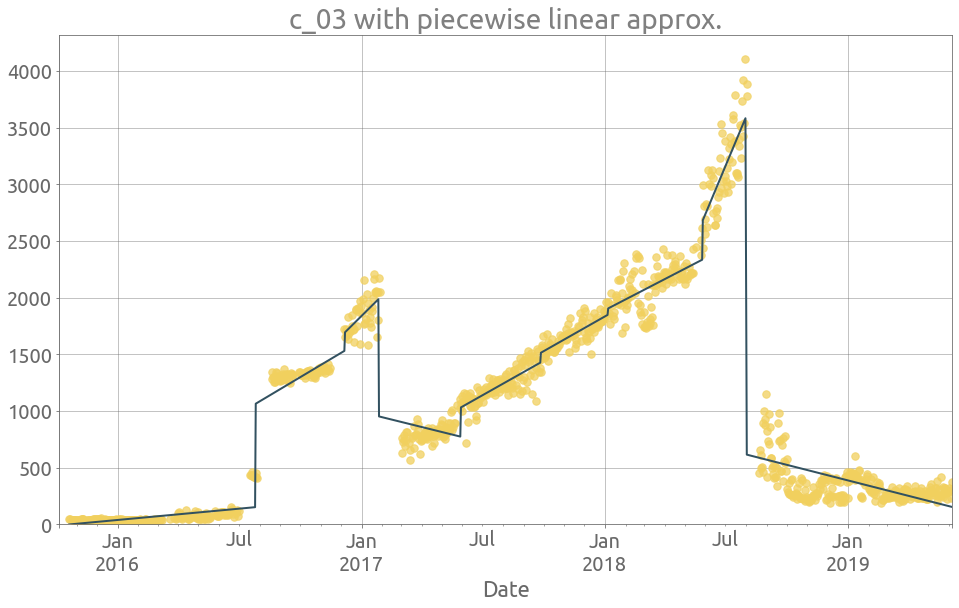
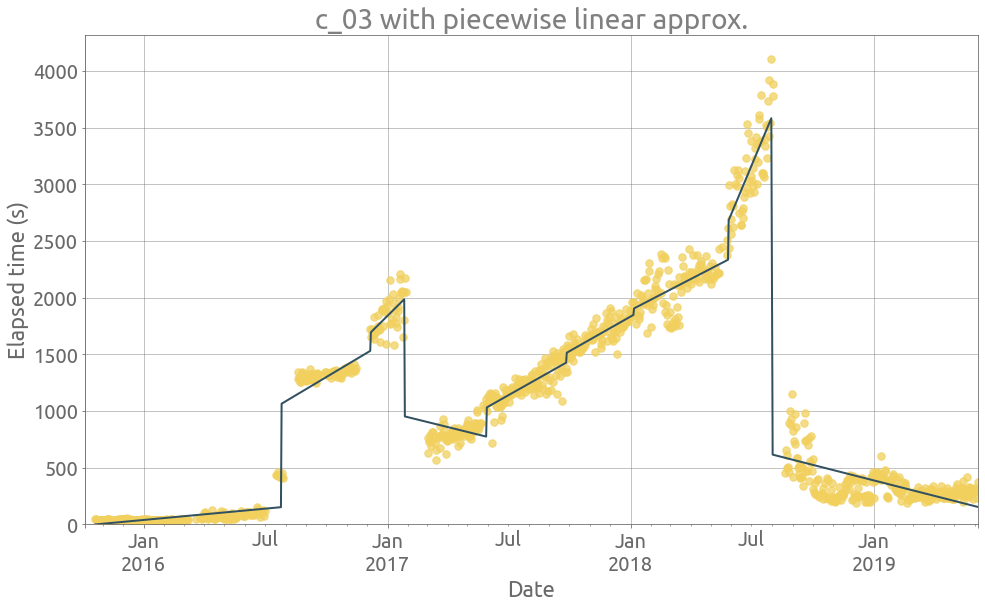
changed the pics

diff --git a/_posts/2020-07-02-Outlier_and_Change_Point_Detection_in_Data_Integration_Performance_Metrics.md b/_posts/2020-07-02-Outlier_and_Change_Point_Detection_in_Data_Integration_Performance_Metrics.md
@@ -1,16 +1,20 @@
 ---
-title: Outlier and Change Point Detection in Data Integration Perfmormance Metrics
+title: Outlier and Change Point Detection in Data integration Performance Metrics
 layout: post
 comments: true
 author: François Pacull & Romain Ferraton
-tags: Python time series SQL Database
+tags: Python Time series Outlier Change point Data integration ETL
 ---
 
-In this post, we are interested in detecting **performance drift** of large and complex daily SQL queries, which usually take from several minutes to several hours to complete. The data correspond to more than 3 years of query execution performance measurements from SQL databases provided by a single organization, for around 50 distinct queries, yielding the same number of time series after pre-processing.
+[Data integration](https://en.wikipedia.org/wiki/Data_integration) involves combining data residing in different sources, and providing users with a unified view of them.
+
+In this post, we are interested in detecting **performance drift** of large and complex daily data integration processes through ETL pipelines, which usually take from several minutes to several hours to complete.
+
+The data correspond to more than 3 years of time performance measurements provided by a single organization, for around 50 distinct data integration processes performed with [SAP Data Services](https://www.sap.com/products/data-services.html), yielding the same number of time series after pre-processing.
 
 Each time serie is assumed to be independent from the others, although there might be some interactions that could be studied with some causal discovery algorithms for example. However our choice is to deal sequentially with univariate time serie problems. These series have a daily frequency and are always strictly positive, due to the fact that they store some elapsed time.
 
-The aim of this post is to detect decays in query performance, time-wise. The difficulty is that the underlying data, stored in the databases, is evolving during the time span of the study, regarding table size and structure. So does the queries that may be improved from time to time. Also, the background load of database servers where queries are executed may vary. 
+The aim of this post is to detect a potential decay in the time-wise performance of a complex and heavy process. The difficulty is that the underlying data, stored in the databases, is evolving during the time span of the study, regarding table size and structure. So does the pipeline that may be adapted and improved from time to time. Also, the background load of database servers or networks may vary. 
 
 Here are the steps of the analysis:
 - clean/prepare the data
@@ -18,7 +22,7 @@ Here are the steps of the analysis:
 - detect change points
 - extract features on homogeneous time intervals
 
-As a result, we expect to get a single indicator of performance drift per SQL query.
+As a result, we expect to get a single indicator of performance drift per data integration process.
 
 ## Imports
 
@@ -328,7 +332,7 @@ def plot_outliers(ts, outliers, figsize=FS):
         ax = ts.plot(ax=ax, style=".", c="#325160", ms=5, alpha=0.75, grid=True)
         ax.autoscale(enable=True, axis="x", tight=True)
         _ = ax.set_ylim(0,)
-        ax.set(title=ts.name + " with outliers", xlabel="Date")
+        ax.set(title=ts.name + " with outliers", xlabel="Date", ylabel="Elapsed time (s)")
 ```
 
 
@@ -384,7 +388,7 @@ Now we can focus on the change point detection problem. We are going to use [rup
 
 > Change point detection is the task of finding changes in the underlying model of a signal or time series
 
-Here we are dealing an unknown number of break points, so a penalty is added to the change point problem with a fixed number of change points $K$. Although `ruptures` can deal with multivariate signals, we apply the detection algorithms to each time serie separately.
+Here we are dealing with an unknown number of break points, so a penalty is added to the change point problem with a fixed number of change points $K$. Although `ruptures` can deal with multivariate signals, we apply the detection algorithms to each time serie separately.
 
 The selected search method is the Pruned Exact Linear Time (PELT) method which is optimal. The cost function is a Gaussian kernel-based mapping. The default penalty function in `ruptures` is linear, from what we understand. Here is the function that computes and return the breakpoint indices:
 
@@ -402,6 +406,7 @@ signal = ts.dropna().values
 bkps = detect_change_points(signal)
 fig, axarr = display(signal, bkps, figsize=FS)
 _ = plt.title(ts.name + " with break points")
+_ = plt.ylabel("Elapsed time (s)")
 ```
 
 
@@ -415,6 +420,7 @@ signal = ts.dropna().values
 bkps = detect_change_points(signal)
 display(signal, bkps, figsize=FS)
 _ = plt.title(ts.name + " with break points")
+_ = plt.ylabel("Elapsed time (s)")
 ```
 
 
@@ -457,7 +463,10 @@ def extract_features(ts_in, plot=True):
         ax = ts.plot(figsize=FS, style=".", c="#F1D05E", ms=15, alpha=0.75, grid=True)
         _ = df.piecelin.plot(ax=ax, c="#325160", grid=True)
         _ = ax.set_ylim(0,)
-        _ = ax.set(xlabel="Date", title=name + " with piecewise linear approx.")
+        _ = ax.set(
+            xlabel="Date", 
+            title=name + " with piecewise linear approx.", 
+            ylabel="Elapsed time (s)"),
 
     return df
 ```
@@ -482,7 +491,7 @@ _ = extract_features(ts)
 ![png](/img/2020-07-02_01/output_38_0.png)
 
 
-So imagine that we would like to detect if a queries is recently taken more and more time to complete. We start by computing a monthly-averaged value of the slope for the 6 more recent months, and then compute another average of theses monthly slope values with non-uniform weights that increase with time (the older, the smaller the weight). We finally get a unique value representing the average monthly increase of elapsed time during the most recent months, without taking account outliers and jumps. This slope coefficient is computed for each time serie with `compute_slope_coefs`:
+So imagine that we would like to detect if a process has been recently taking more and more time to complete. We start by computing a monthly-averaged value of the slope for the last 6 months, and then compute another average of these slope values with non-uniform weights that increase with time (the older, the smaller the weight). We finally get a unique value representing the increase of elapsed time during the most recent months, without taking account outliers and jumps. This slope coefficient is computed for each time serie with `compute_slope_coefs`:
 
 
 ```python
@@ -518,6 +527,11 @@ Let's plot the 20 largest slope coefficients:
 ax = sc.sort_values(by="slope_coef", ascending=False)[:20].plot.bar(
     figsize=FS, grid=True, alpha=0.5, legend=False
 )
+_ = ax.set(
+    title="Processes with largest slope coefficient in the last 6 months",
+    xlabel="Process",
+    ylabel="Time delta per day (s/day)",
+)
 ```
 
 
@@ -538,6 +552,11 @@ sc = compute_slope_coefs(traces[:"2018-07"])
 ax = sc.sort_values(by="slope_coef", ascending=False)[:20].plot.bar(
     figsize=FS, grid=True, alpha=0.5, legend=False
 )
+_ = ax.set(
+    title="Processes with largest slope coefficient in the last 6 months",
+    xlabel="Process",
+    ylabel="Time delta per day (s/day)",
+)
 ```
 
 
@@ -556,13 +575,14 @@ df = extract_features(ts)
 
 ## Final remarks
 
-This aim of this post was to quickly explore ways to detect performance drift in the executio time of large and complex daily SQL queries. The approach was to remove noise and jumps in the data using outlier detection, change point detection and piecewise linear approximation. Then a weighted average of the slope is computed on the last 6 months to result in a single coefficient for each time serie. We could imagine to track this coefficient on a monthly basis.
+This aim of this post was to quickly explore ways to detect performance drift in the execution time of large and complex data integration processes. The approach was to remove noise and jumps in the time series data using outlier detection, change point detection and piecewise linear approximation. Then a weighted average of the slope is computed on the last 6 months to result in a single coefficient for each time serie. We could imagine to track this coefficient on a monthly basis.
 
 However this approach strongly depends on two parameters:
 - the threshold value for the outlier detection method,
 - the penalty coefficient fot the change point detection method.
 
 [1] B. Iglewicz and D. Hoaglin, *Volume 16: How to Detect and Handle Outliers*, The ASQC Basic References in Quality Control: Statistical Techniques, Edward F. Mykytka, Ph.D., Editor, 1993.  
+
 [2] C. Truong, L. Oudre and N. Vayatis, *Selective review of offline change point detection methods*, Signal Processing, 167:107299, 2020.  
 
 
